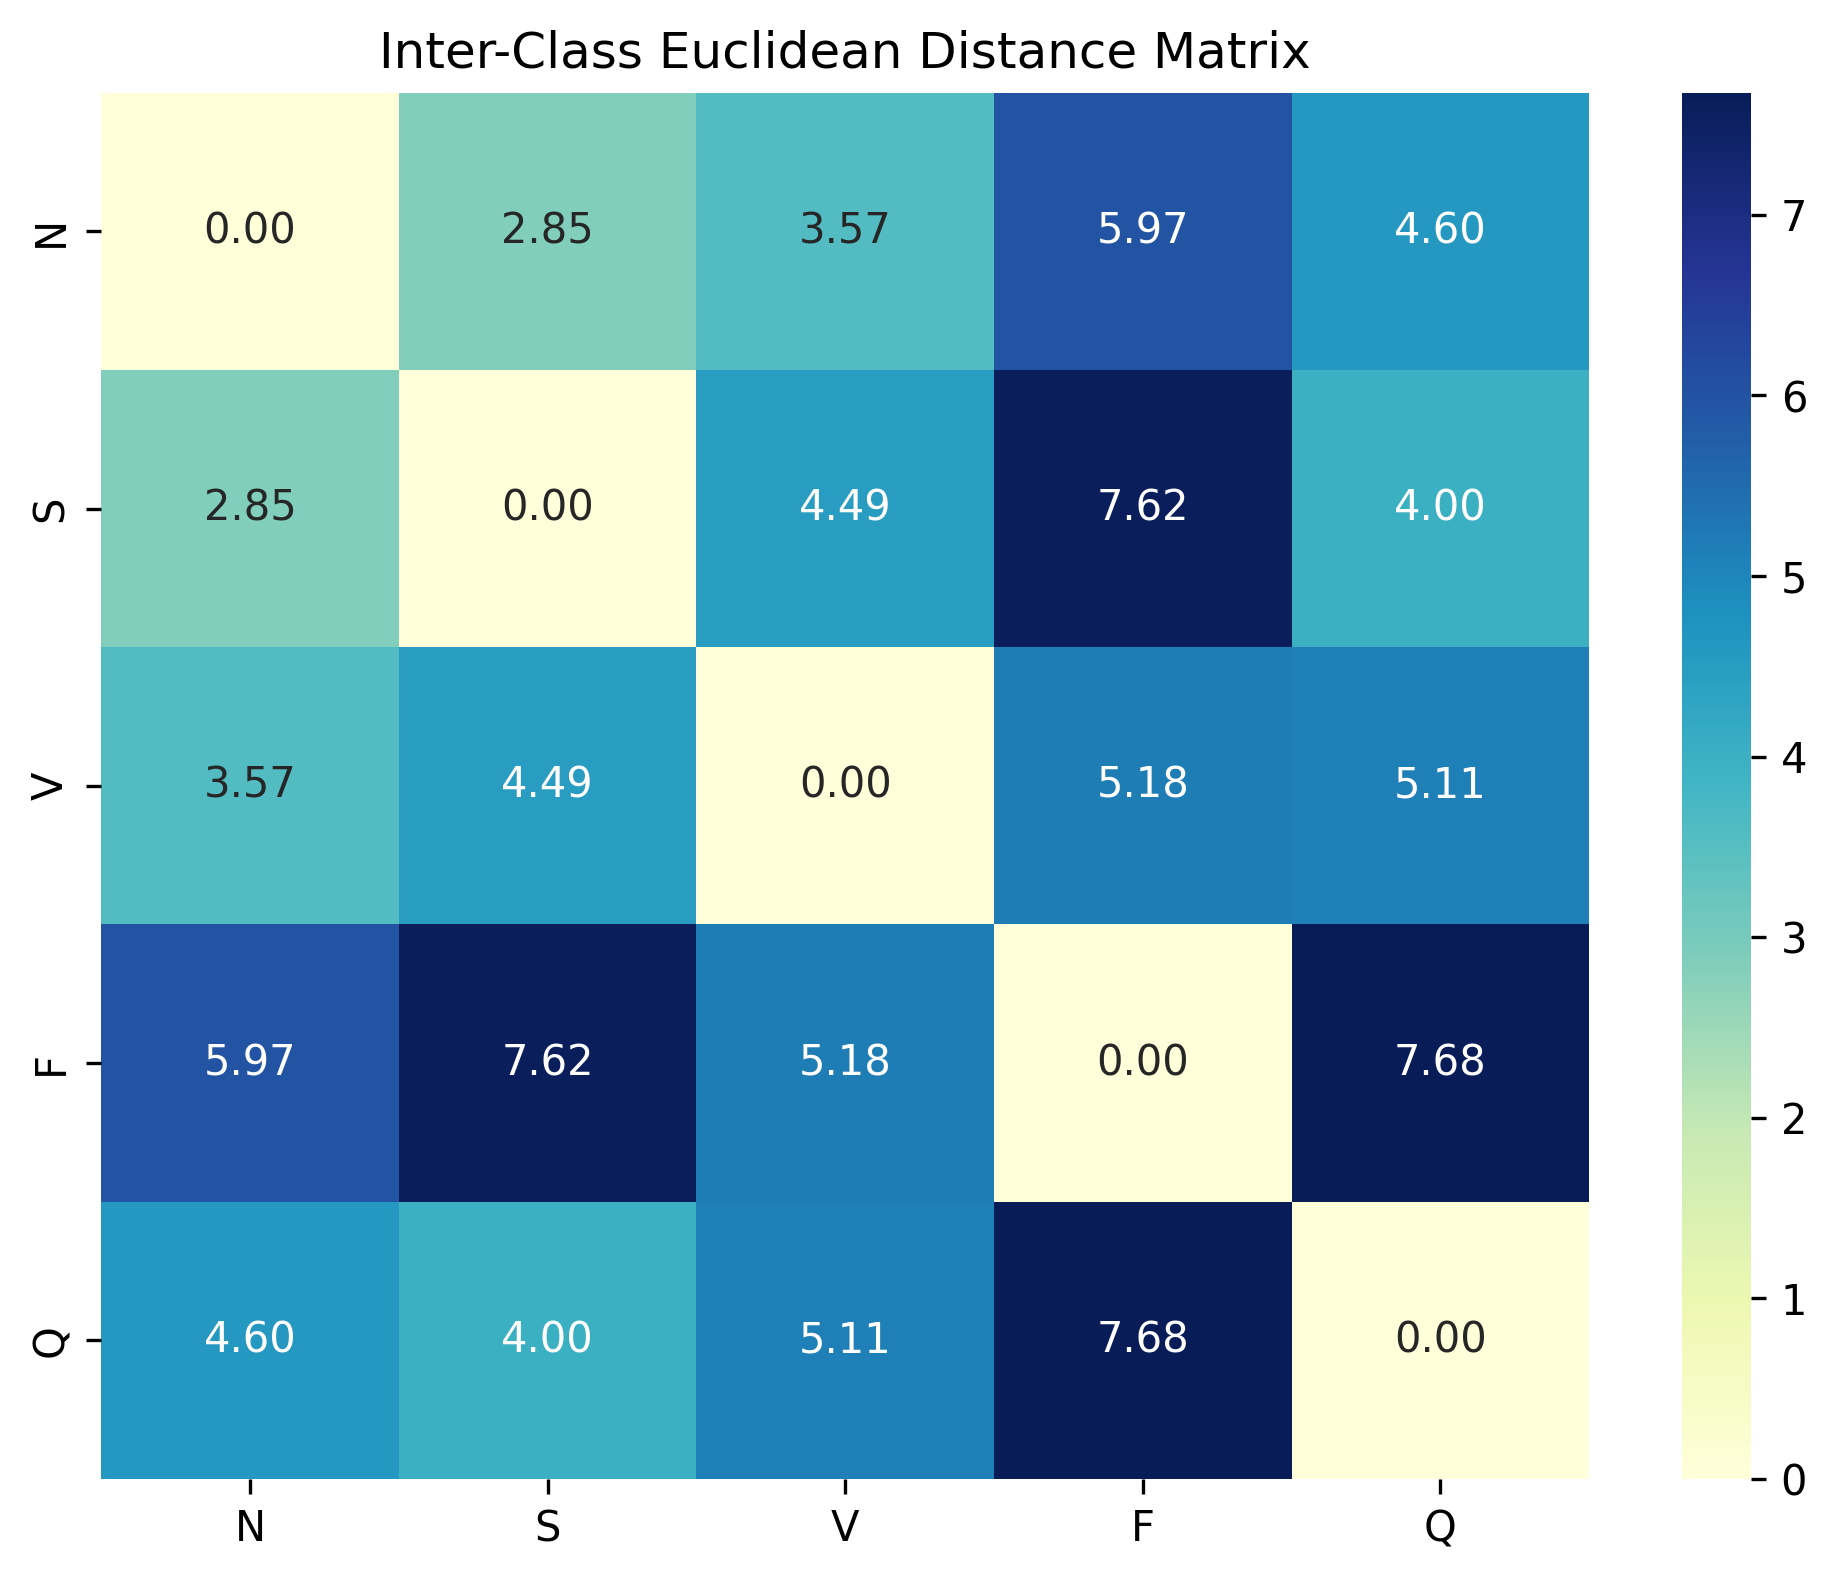
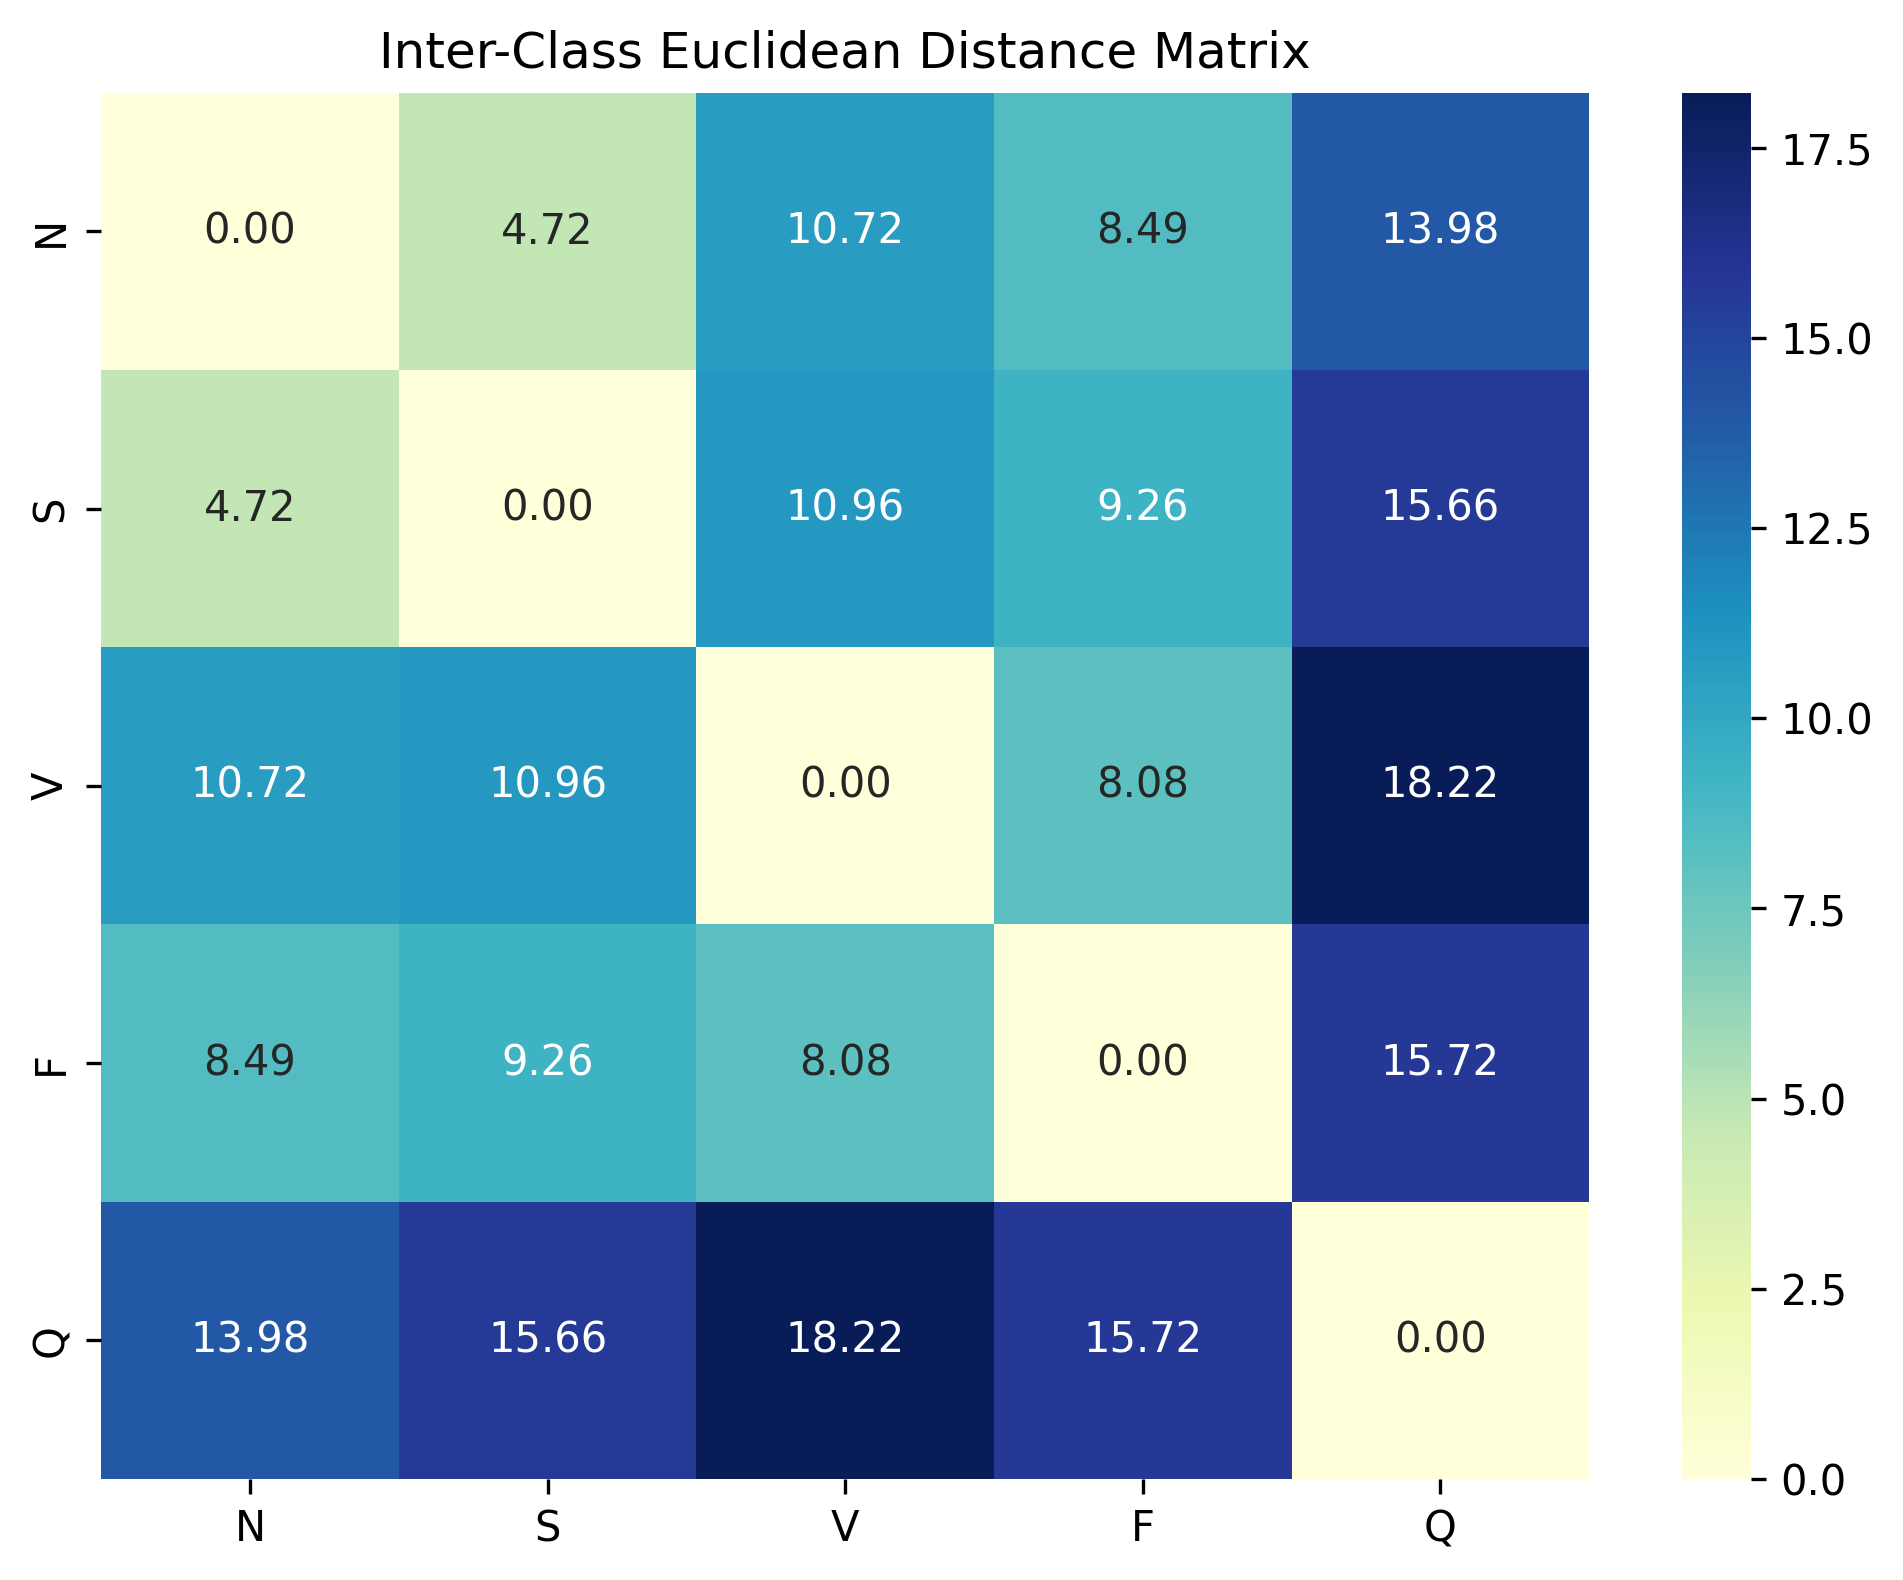
refactor: reorganised src/backend/ & docs/plot/ files accordingly

diff --git a/src/backend/pilae/feature_pipeline.py b/src/backend/pilae/feature_pipeline.py
@@ -28,7 +28,7 @@ OUTPUT_DIR = os.path.join(PROJECT_ROOT, 'data', 'extracted_features')
 
 # --- Setup Narrative Logging ---
 log_dir = os.path.join(PROJECT_ROOT, 'logs', 'pilae')
-    os.makedirs(log_dir, exist_ok=True)
+os.makedirs(log_dir, exist_ok=True)
 log_filename = os.path.join(log_dir, datetime.now().strftime('pilae_pipeline_%Y%m%d_%H%M%S.log'))
 
 logging.basicConfig(
@@ -52,8 +52,11 @@ def run_feature_extraction(pca_components=0.95, task='multi'):
     output_dir = OUTPUT_DIR
     
     if task == 'binary':
-        preproc_dir += '_binary'
-        output_dir += '_binary'
+        preproc_dir = os.path.join(preproc_dir, 'binary')
+        output_dir = os.path.join(output_dir, 'binary')
+    else:
+        preproc_dir = os.path.join(preproc_dir, 'multi')
+        output_dir = os.path.join(output_dir, 'multi')
     
     # 1. Load Preprocessed Data (3-way split)
     logger.info(f"Loading standardized data from {preproc_dir}...")

diff --git a/src/backend/preprocessing/main.py b/src/backend/preprocessing/main.py
@@ -24,8 +24,8 @@ from global_scaling import apply_global_scaling
 
 # --- Setup Narrative Logging ---
 PROJECT_ROOT = os.path.abspath(os.path.join(config.BASE_DIR, '..', '..', '..'))
-    log_dir = os.path.join(PROJECT_ROOT, 'logs', 'preprocessing')
-    os.makedirs(log_dir, exist_ok=True)
+log_dir = os.path.join(PROJECT_ROOT, 'logs', 'preprocessing')
+os.makedirs(log_dir, exist_ok=True)
 log_filename = os.path.join(log_dir, datetime.now().strftime('morphology_pipeline_%Y%m%d_%H%M%S.log'))
 
 logging.basicConfig(

diff --git a/src/backend/classification/run_ablation.py b/src/backend/classification/run_ablation.py
@@ -212,7 +212,7 @@ def run_all_experiments(python_exe='python'):
     logger.info("ABLATION STUDY SUMMARY")
     logger.info("=" * 70)
     for exp_id, success in results.items():
-        status = "✓ PASSED" if success else "✗ FAILED"
+        status = "PASS PASSED" if success else "FAIL FAILED"
         logger.info(f"  Exp {exp_id:>2}: {status} — {EXPERIMENTS[exp_id]['name']}")
     
     logger.info(f"\nDetailed results are in the individual log files under each module's logs/ directory.")

diff --git a/src/backend/classification/vqc/train_hybrid.py b/src/backend/classification/vqc/train_hybrid.py
@@ -74,6 +74,8 @@ def save_confusion_matrix_heatmap(y_true, y_pred, model_name, split_name='test',
     plt.xlabel('Predicted Heartbeat Class')
     plt.tight_layout()
     safe_name = model_name.replace(" ", "_").replace("(", "").replace(")", "").lower()
+    PLOTS_DIR_TASK = os.path.join(PLOTS_DIR, task)
+    os.makedirs(PLOTS_DIR_TASK, exist_ok=True)
     plot_path = os.path.join(PLOTS_DIR_TASK, f"{safe_name}_{split_name}_heatmap.png")
     plt.savefig(plot_path, dpi=300)
     plt.close()

diff --git a/src/backend/classification/classical/train_classical.py b/src/backend/classification/classical/train_classical.py
@@ -38,7 +38,7 @@ MODELS_DIR = os.path.join(PROJECT_ROOT, 'models', 'classical')
 
 # --- Setup Narrative Logging ---
 log_dir = os.path.join(PROJECT_ROOT, 'logs', 'classical')
-    os.makedirs(log_dir, exist_ok=True)
+os.makedirs(log_dir, exist_ok=True)
 log_filename = os.path.join(log_dir, datetime.now().strftime('classical_training_%Y%m%d_%H%M%S.log'))
 
 logging.basicConfig(
